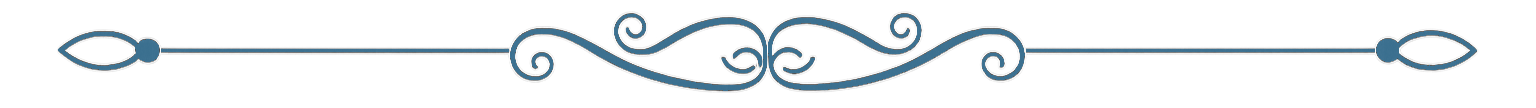
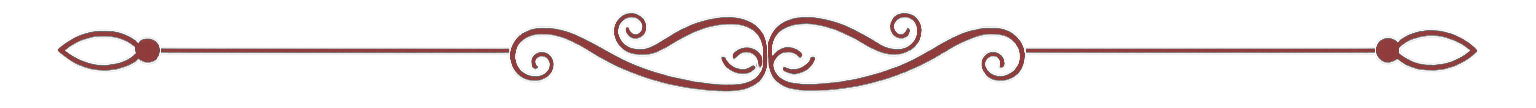
style: atualizar paleta para vermelho ee4242
Made-with: Cursor

diff --git a/src/components/Header.css b/src/components/Header.css
@@ -4,9 +4,9 @@
   left: 0;
   right: 0;
   z-index: 100;
-  background: rgba(240, 248, 255, 0.85);
+  background: rgba(250, 245, 247, 0.9);
   backdrop-filter: blur(12px);
-  border-bottom: 1px solid rgba(184, 212, 227, 0.5);
+  border-bottom: 1px solid rgba(238, 66, 66, 0.35);
 }
 
 .header-inner {
@@ -22,7 +22,7 @@
   font-family: 'Playfair Display', serif;
   font-weight: 600;
   font-size: 1.75rem;
-  color: var(--baby-blue-800);
+  color: var(--baby-blue-900);
 }
 
 .logo-text:hover {
@@ -42,7 +42,7 @@
   display: block;
   width: 24px;
   height: 2px;
-  background: var(--baby-blue-700);
+  background: var(--baby-blue-600);
   border-radius: var(--radius-full);
   transition: transform 0.3s, opacity 0.3s;
 }
@@ -74,7 +74,7 @@
   align-items: center;
   gap: 0.35rem;
   padding: 0.5rem 0.75rem;
-  border: 1px solid var(--baby-blue-300);
+  border: 1px solid rgba(238, 66, 66, 0.25);
   border-radius: var(--radius-sm);
   background: var(--white);
   color: var(--baby-blue-800);
@@ -85,7 +85,7 @@
 }
 
 .lang-trigger:hover {
-  background: var(--baby-blue-100);
+  background: var(--baby-blue-50);
   border-color: var(--baby-blue-400);
 }
 
@@ -109,7 +109,7 @@
   background: var(--white);
   border-radius: var(--radius-sm);
   box-shadow: var(--shadow-card);
-  border: 1px solid var(--baby-blue-200);
+  border: 1px solid rgba(238, 66, 66, 0.2);
   z-index: 10;
 }
 
@@ -129,7 +129,7 @@
 
 .lang-menu button:hover,
 .lang-menu button.active {
-  background: var(--baby-blue-100);
+  background: var(--baby-blue-50);
   color: var(--baby-blue-700);
 }
 
@@ -151,8 +151,8 @@
 }
 
 .nav button:hover {
-  background: var(--baby-blue-200);
-  color: var(--baby-blue-700);
+  background: var(--baby-blue-100);
+  color: var(--baby-blue-800);
 }
 
 @media (max-width: 768px) {
@@ -173,10 +173,10 @@
     left: 0;
     right: 0;
     flex-direction: column;
-    background: rgba(240, 248, 255, 0.98);
+    background: rgba(250, 245, 247, 0.98);
     backdrop-filter: blur(12px);
     padding: 1rem;
-    border-bottom: 1px solid var(--baby-blue-200);
+    border-bottom: 1px solid rgba(238, 66, 66, 0.35);
     gap: 0.25rem;
     transform: translateY(-10px);
     opacity: 0;

diff --git a/src/components/ArtCard.css b/src/components/ArtCard.css
@@ -19,8 +19,8 @@
   height: 40px;
   border: none;
   border-radius: var(--radius-sm);
-  background: rgba(255, 255, 255, 0.9);
-  color: var(--baby-blue-800);
+  background: rgba(255, 255, 255, 0.95);
+  color: var(--baby-blue-700);
   cursor: pointer;
   display: flex;
   align-items: center;
@@ -35,8 +35,8 @@
 }
 
 .art-card-expand:hover {
-  background: var(--white);
-  color: var(--baby-blue-600);
+  background: var(--baby-blue-100);
+  color: var(--baby-blue-700);
 }
 
 .art-card:hover .art-card-frame {
@@ -71,7 +71,7 @@
   left: 0;
   right: 0;
   padding: 0.85rem 1.1rem;
-  background: linear-gradient(transparent, rgba(42, 83, 105, 0.85));
+  background: linear-gradient(transparent, rgba(0, 0, 0, 0.85));
   color: var(--white);
   font-size: 1.05rem;
   font-weight: 500;
@@ -85,8 +85,8 @@
   gap: 0.75rem;
   min-height: 200px;
   aspect-ratio: 1;
-  background: linear-gradient(135deg, var(--baby-blue-100) 0%, var(--baby-blue-200) 100%);
-  color: var(--baby-blue-600);
+  background: linear-gradient(135deg, var(--baby-blue-50) 0%, var(--baby-blue-200) 100%);
+  color: var(--baby-blue-700);
   font-size: 1.1rem;
   font-weight: 500;
 }
@@ -102,7 +102,7 @@
   position: fixed;
   inset: 0;
   z-index: 1000;
-  background: rgba(42, 83, 105, 0.92);
+  background: rgba(48, 16, 16, 0.92);
   display: flex;
   align-items: center;
   justify-content: center;
@@ -141,8 +141,8 @@
   height: 48px;
   border: none;
   border-radius: 50%;
-  background: rgba(255, 255, 255, 0.9);
-  color: var(--baby-blue-800);
+  background: rgba(255, 255, 255, 0.95);
+  color: var(--baby-blue-700);
   cursor: pointer;
   display: flex;
   align-items: center;
@@ -151,6 +151,6 @@
 }
 
 .art-lightbox-close:hover {
-  background: var(--white);
-  color: var(--baby-blue-600);
+  background: var(--baby-blue-100);
+  color: var(--baby-blue-800);
 }

diff --git a/src/index.css b/src/index.css
@@ -1,18 +1,24 @@
-/* Paleta azul bebê */
+/* Paleta baseada no vermelho #ee4242 */
 :root {
-  --baby-blue-50: #F0F8FF;
-  --baby-blue-100: #E0F2FE;
-  --baby-blue-200: #C5E0F4;
-  --baby-blue-300: #B8D4E3;
-  --baby-blue-400: #9BC4E2;
-  --baby-blue-500: #7EB8DA;
-  --baby-blue-600: #5A9EC4;
-  --baby-blue-700: #4A8BB5;
-  --baby-blue-800: #3A6F8F;
-  --baby-blue-900: #2A5369;
-  --white: #FFFFFF;
-  --shadow-soft: 0 4px 20px rgba(90, 158, 196, 0.15);
-  --shadow-card: 0 8px 32px rgba(90, 158, 196, 0.2);
+  /* tons claros neutros para o fundo */
+  --baby-blue-50: #fff5f5;
+  --baby-blue-100: #ffe5e5;
+  --baby-blue-200: #ffd1d1;
+
+  /* escala em torno de #ee4242 */
+  --baby-blue-300: #ff9b9b;
+  --baby-blue-400: #ff7a7a;
+  --baby-blue-500: #ee4242; /* cor principal pedida */
+  --baby-blue-600: #d83636;
+  --baby-blue-700: #b82929;
+
+  /* tons escuros para texto */
+  --baby-blue-800: #5a1515;
+  --baby-blue-900: #301010;
+
+  --white: #ffffff;
+  --shadow-soft: 0 4px 20px rgba(48, 16, 16, 0.08);
+  --shadow-card: 0 8px 32px rgba(48, 16, 16, 0.14);
   --radius-sm: 12px;
   --radius-md: 16px;
   --radius-lg: 24px;
@@ -34,7 +40,7 @@ html {
 body {
   font-family: 'Outfit', -apple-system, BlinkMacSystemFont, sans-serif;
   font-size: 1.125rem;
-  background: linear-gradient(180deg, var(--baby-blue-50) 0%, var(--baby-blue-100) 50%, var(--baby-blue-200) 100%);
+  background: radial-gradient(circle at top, var(--baby-blue-100) 0%, var(--baby-blue-50) 45%, #ffffff 100%);
   min-height: 100vh;
   color: var(--baby-blue-900);
   line-height: 1.6;
@@ -64,7 +70,7 @@ a {
 .section-separator {
   max-width: 1200px;
   margin: 0 auto;
-  padding: 2rem 1.5rem 0;
+  padding: 1.25rem 1.5rem 0;
 }
 .section-separator img {
   display: block;

diff --git a/src/components/Hero.css b/src/components/Hero.css
@@ -20,7 +20,7 @@
   font-weight: 500;
   text-transform: uppercase;
   letter-spacing: 0.15em;
-  color: var(--baby-blue-600);
+  color: var(--baby-blue-500);
   margin-bottom: 1rem;
 }
 
@@ -35,12 +35,12 @@
 
 .hero-title em {
   font-style: italic;
-  color: var(--baby-blue-600);
+  color: var(--baby-blue-500);
 }
 
 .hero-desc {
   font-size: 1.35rem;
-  color: var(--baby-blue-800);
+  color: var(--baby-blue-200);
   margin-bottom: 2rem;
   opacity: 0.9;
 }
@@ -73,13 +73,13 @@
   position: absolute;
   border-radius: 50%;
   filter: blur(60px);
-  opacity: 0.5;
+  opacity: 0.3;
 }
 
 .hero-orb-1 {
   width: 400px;
   height: 400px;
-  background: var(--baby-blue-300);
+  background: var(--baby-blue-500);
   top: 10%;
   right: -10%;
 }
@@ -87,16 +87,12 @@
 .hero-orb-2 {
   width: 300px;
   height: 300px;
-  background: var(--baby-blue-400);
+  background: var(--baby-blue-700);
   bottom: 20%;
   left: -5%;
 }
 
 .hero-orb-3 {
-  width: 200px;
-  height: 200px;
-  background: var(--baby-blue-200);
-  top: 50%;
-  left: 50%;
-  transform: translate(-50%, -50%);
+  /* removida para não atrapalhar a leitura do texto */
+  display: none;
 }

diff --git a/src/components/Footer.css b/src/components/Footer.css
@@ -1,5 +1,5 @@
 .footer {
-  background: var(--baby-blue-800);
+  background: var(--baby-blue-900);
   color: var(--baby-blue-100);
   padding: 3rem 1.5rem 2rem;
   scroll-margin-top: 5rem;
@@ -57,7 +57,7 @@
 }
 
 .footer-links a {
-  color: var(--baby-blue-200);
+  color: var(--baby-blue-500);
   font-weight: 500;
   transition: color 0.2s;
 }

diff --git a/src/components/Gallery.css b/src/components/Gallery.css
@@ -1,7 +1,7 @@
 .gallery-main {
   max-width: 1200px;
   margin: 0 auto;
-  padding: 4rem 1.5rem 5rem;
+  padding: 2.5rem 1.5rem 5rem;
 }
 
 .gallery-section {
@@ -46,7 +46,7 @@
 
 .section-subtitle {
   font-size: 1.2rem;
-  color: var(--baby-blue-700);
+  color: var(--baby-blue-200);
   line-height: 1.5;
 }
 

diff --git a/tools/recolor_separator.py b/tools/recolor_separator.py
@@ -1,0 +1,84 @@
+import colorsys
+from pathlib import Path
+
+from PIL import Image
+
+
+def recolor_to_palette(
+    input_path: Path,
+    output_path: Path | None = None,
+    target_hex: str = "#ee4242",
+    min_saturation: float = 0.15,
+) -> Path:
+    """
+    Recolore um separador azul para a paleta baseada em `target_hex`.
+
+    Estratégia:
+    - Mantém o canal alpha (transparência) intacto.
+    - Converte cada pixel visível para HSV.
+    - Força o matiz (hue) para o da cor alvo, preservando saturação/valor originais.
+    - Pixels de saturação muito baixa (quase branco/cinza) são deixados como estão
+      para não sujar o fundo.
+    """
+
+    input_path = Path(input_path)
+    if output_path is None:
+        output_path = input_path
+    else:
+        output_path = Path(output_path)
+
+    # Normaliza hex (#rrggbb → valores 0–1)
+    target_hex = target_hex.lstrip("#")
+    r = int(target_hex[0:2], 16) / 255.0
+    g = int(target_hex[2:4], 16) / 255.0
+    b = int(target_hex[4:6], 16) / 255.0
+    target_h, _, _ = colorsys.rgb_to_hsv(r, g, b)
+
+    im = Image.open(input_path).convert("RGBA")
+    pixels = im.load()
+
+    width, height = im.size
+    for y in range(height):
+        for x in range(width):
+            r, g, b, a = pixels[x, y]
+
+            # Mantém pixels totalmente transparentes
+            if a == 0:
+                continue
+
+            rf, gf, bf = r / 255.0, g / 255.0, b / 255.0
+            h, s, v = colorsys.rgb_to_hsv(rf, gf, bf)
+
+            # Não mexe em quase-brancos/cinzas para preservar o fundo
+            if s < min_saturation:
+                continue
+
+            # Força o matiz para o da paleta escolhida
+            nr, ng, nb = colorsys.hsv_to_rgb(target_h, s, v)
+
+            pixels[x, y] = (
+                int(round(nr * 255)),
+                int(round(ng * 255)),
+                int(round(nb * 255)),
+                a,
+            )
+
+    output_path.parent.mkdir(parents=True, exist_ok=True)
+    im.save(output_path)
+    return output_path
+
+
+if __name__ == "__main__":
+    project_root = Path(__file__).resolve().parents[1]
+    src = project_root / "public" / "separador" / "separador.png"
+
+    # Se quiser preservar o original, descomente a linha abaixo:
+    # backup = src.with_name("separador-original.png")
+    # if not backup.exists():
+    #     src.replace(backup)
+    #
+    # e então use `backup` como entrada da função.
+
+    recolor_to_palette(src)
+    print(f"Recolor concluído em: {src}")
+
